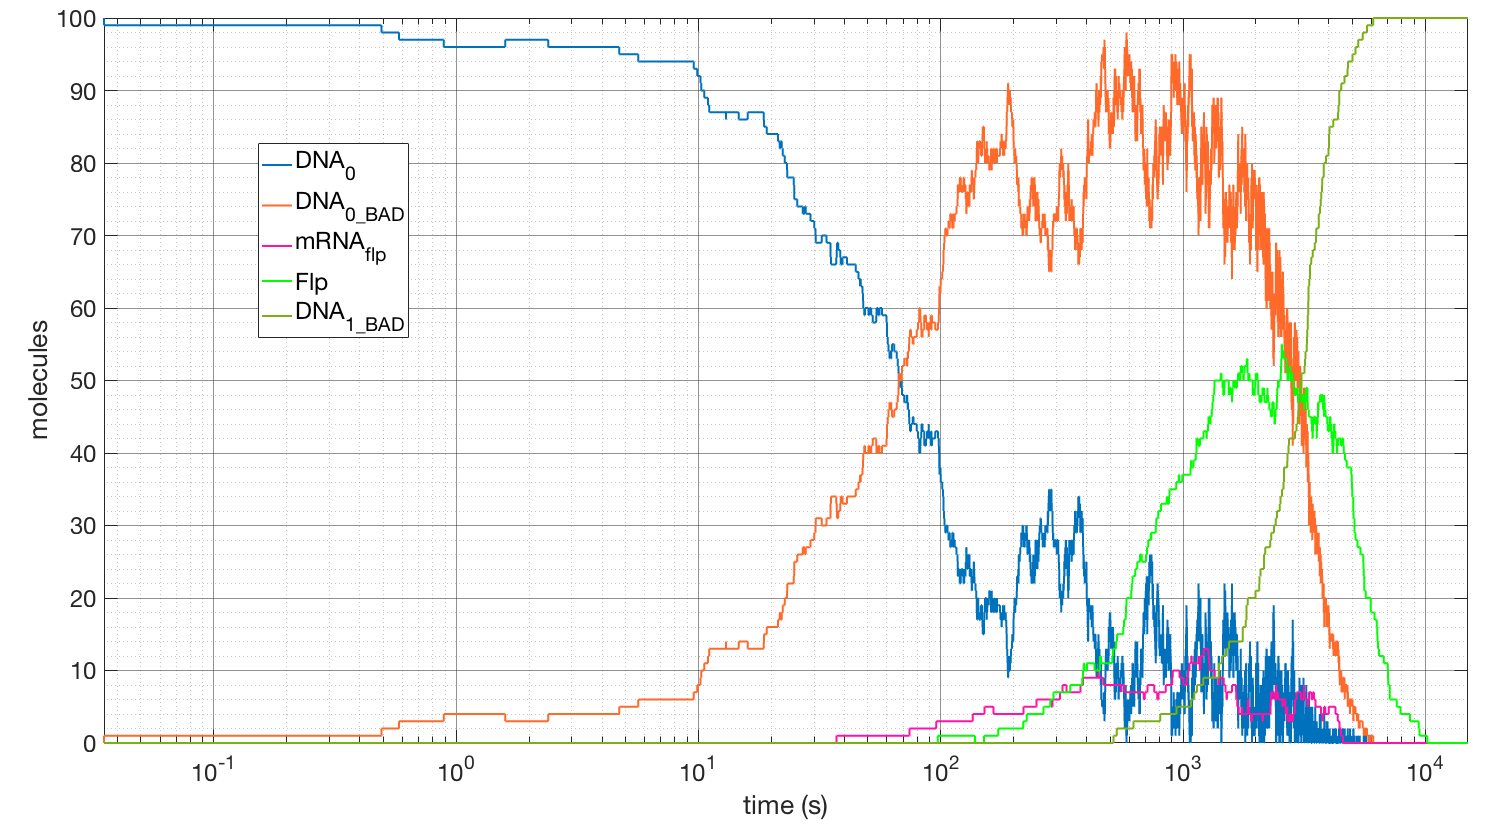
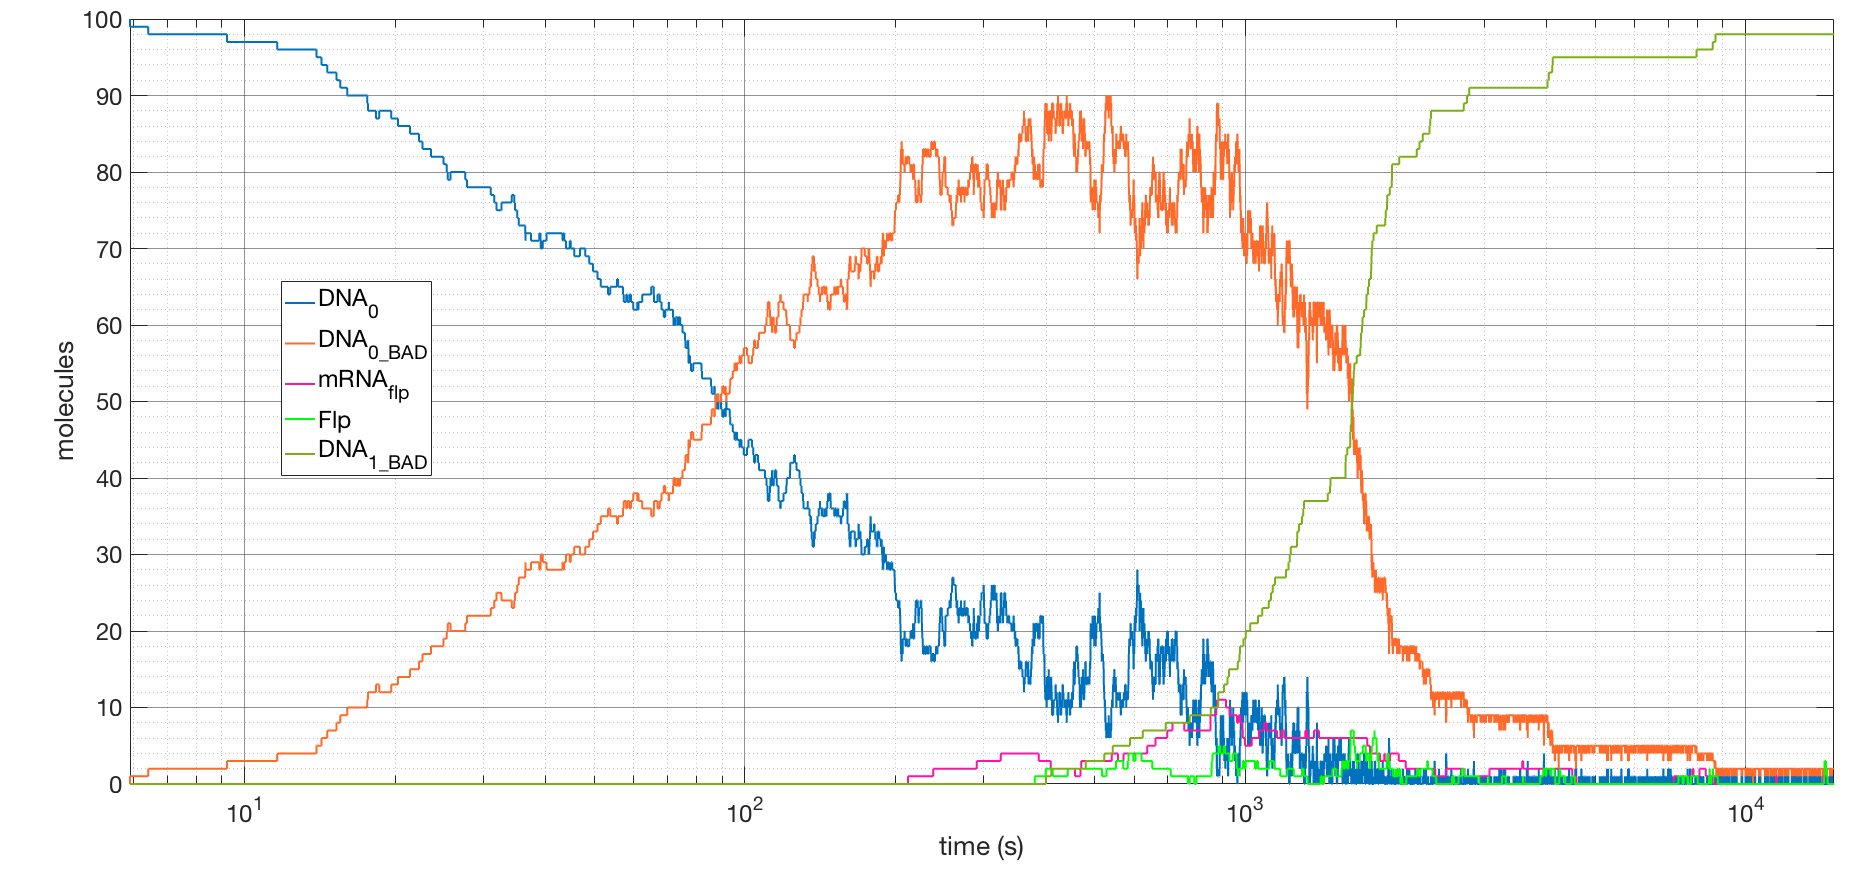
added new method createfigure() from which graphics are derived

diff --git a/simulation/gillespiel/createfigure.m b/simulation/gillespiel/createfigure.m
@@ -1,0 +1,40 @@
+function createfigure(X1, ymatrix1)
+%CREATEFIGURE(X1, ymatrix1)
+%  X1:  stairs x
+%  YMATRIX1:  stairs matrix data
+
+%  Auto-generated by MATLAB on 14-Jan-2021 20:48:48
+
+% Create figure
+figure;
+
+% Create axes
+axes1 = axes('Position',[0.0695652173913043 0.110179640718563 0.912374581939799 0.868263473053892]);
+hold(axes1,'on');
+colororder([1 0 0;0 0.447058823529412 0.741176470588235;1 0.074509803921569 0.650980392156863;0 1 0;0 1 1;0.301960784313725 0.745098039215686 0.933333333333333;0.635294117647059 0.07843137254902 0.184313725490196]);
+
+% Create multiple lines using matrix input to stairs
+stairs1 = stairs(X1,ymatrix1,'LineWidth',2);
+set(stairs1(1),'DisplayName','DNA_0','Color',[0 0.447058823529412 0.741176470588235]);
+set(stairs1(2),'DisplayName','DNA_{0\_BAD}','Color',[1 0.411764705882353 0.16078431372549]);
+set(stairs1(3),'DisplayName','mRNA_{flp}');
+set(stairs1(4),'DisplayName','Flp');
+set(stairs1(5),'DisplayName','DNA_{1\_BAD}','Color',[0.47843137254902 0.690196078431373 0.082352941176471]);
+
+% Create ylabel
+ylabel('molecules');
+
+% Create xlabel
+xlabel('time (s)');
+
+% Uncomment the following line to preserve the X-limits of the axes
+xlim(axes1,[0 15000]);
+box(axes1,'on');
+hold(axes1,'off');
+% Set the remaining axes properties
+set(axes1,'FontSize',24,'GridAlpha',0.5,'LineStyleOrder',{'-'},'XGrid','on','XMinorGrid','on','XMinorTick','on','XScale','log','YGrid','on','YMinorGrid',...
+    'on');
+% Create legend
+legend1 = legend(axes1,'show');
+set(legend1,'Position',[0.172697682752031 0.59761081974902 0.101003344481605 0.227803738317757],'LineWidth',1,'FontSize',24,'FontName','Helvetica Neue');
+

diff --git a/simulation/gillespiel/counter_0_1.m b/simulation/gillespiel/counter_0_1.m
@@ -54,7 +54,7 @@ stoich_matrix = [-1     -1      1          0       0     0        0         0   
 %[t,x] = firstReactionMethod(stoich_matrix, pfun, tspan, x0, p);
 
 %% Plot time course
-figure();
+% figure();
 
 % REMOVE ARA COLUMN FROM VECTOR
 
@@ -64,17 +64,17 @@ x(:,2) = [];
 % REMOVE DNA_1 COLUMN FROM VECTOR ( NOW AT COLUMN 5 INSTEAD OF 6)
 x(:,5) = [];
 
-
-stairs(t,x(:,1:5)); set(gca,'XLim',tspan);
-
-% set log scale 
-set(gca,'XScale','log');
-
-xlabel('time (s)');
-ylabel('molecules');
-
-% CAUTION: DNA_1 and Ara ARE MISSING FROM THIS GRAPH
-legend('DNA_0', 'DNA_0_BAD', 'mRNA_flp', 'Flp', 'DNA_1_BAD');
+createfigure(t,x(:,1:5));
+% stairs(t,x(:,1:5)); set(gca,'XLim',tspan);
+% 
+% % set log scale 
+% set(gca,'XScale','log');
+% 
+% xlabel('time (s)');
+% ylabel('molecules');
+% 
+% % CAUTION: DNA_1 and Ara ARE MISSING FROM THIS GRAPH
+% legend('DNA_0', 'DNA_0_BAD', 'mRNA_flp', 'Flp', 'DNA_1_BAD');
 
 end
 
